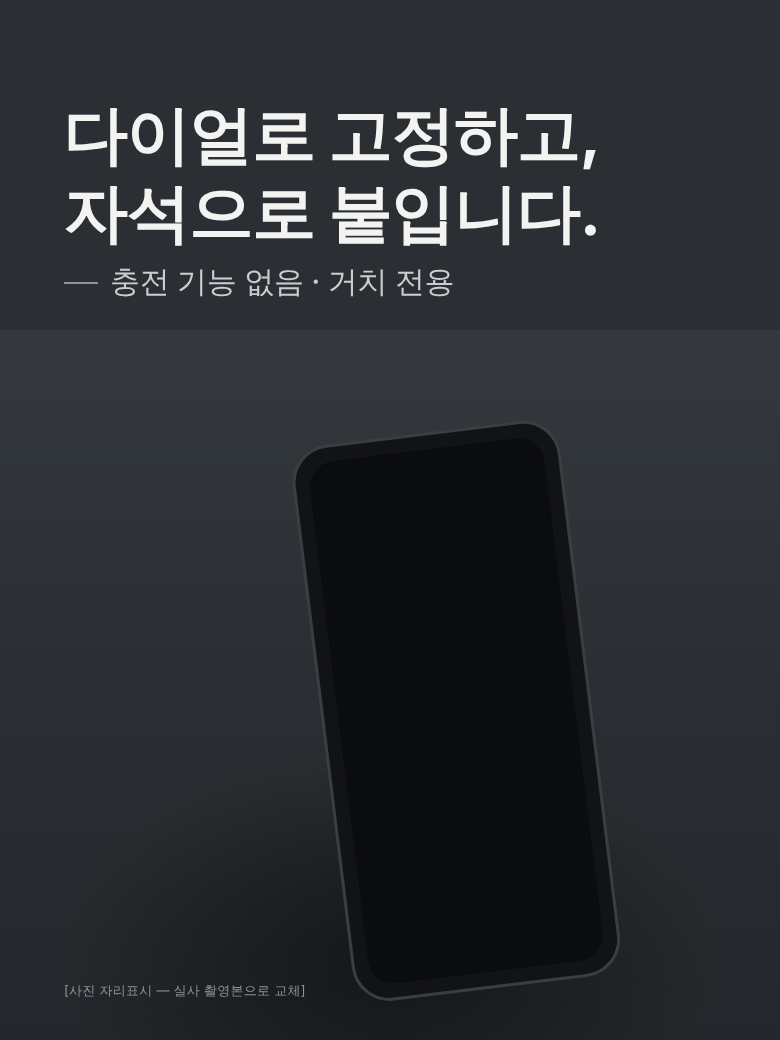
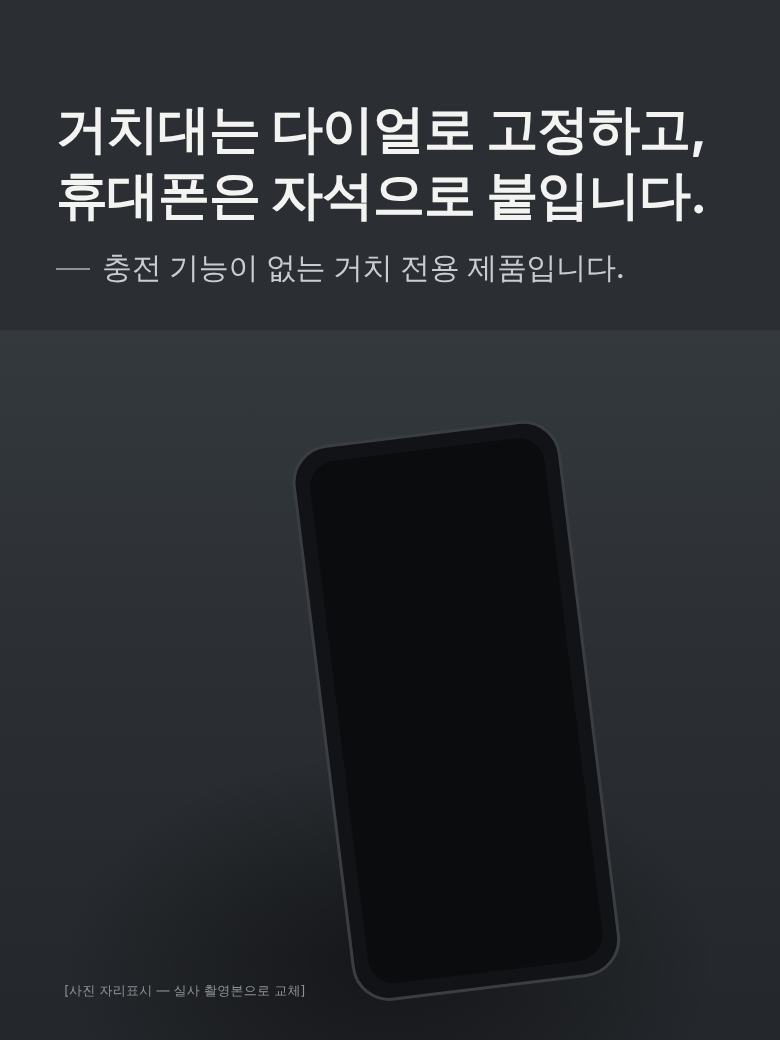
Revise N001 consumer copy with fluent-korean guideline; refine KV headline
Claude-Session: https://claude.ai/code/session_01DXr6YRCs5TJfJ9QnxEoxWM

Changed region(s): [[0.0615, 0.0923, 0.9231, 0.3077]]

diff --git a/product-page-planning/03_plan/kv_mockup/N001_KV_layout_780.html b/product-page-planning/03_plan/kv_mockup/N001_KV_layout_780.html
@@ -16,9 +16,9 @@ body{background:#fff;font-family:Pretendard,-apple-system,sans-serif}
 .phone{position:absolute;left:470px;top:430px;width:270px;height:560px;border-radius:38px;background:#111316;border:3px solid #3A3E43;transform:translateX(-50%) rotate(-7deg);transform-origin:50% 70%}
 .phone:after{content:'';position:absolute;inset:14px;border-radius:26px;background:#0B0C0E}
 .note{position:absolute;left:64px;bottom:40px;font-size:13px;color:#8E939A;letter-spacing:.02em}
-.title{position:absolute;left:64px;top:96px;font-weight:700;font-size:64px;line-height:1.22;letter-spacing:-0.02em;color:#F3F4F2}
+.title{position:absolute;left:56px;top:96px;font-weight:700;font-size:52px;line-height:1.26;letter-spacing:-0.02em;color:#F3F4F2}
 .title em{font-style:normal;color:#F3F4F2}
-.label{position:absolute;left:64px;top:262px;display:inline-flex;align-items:center;gap:12px;font-size:30px;font-weight:500;color:#C9CDD1;letter-spacing:-0.01em}
+.label{position:absolute;left:56px;top:248px;display:inline-flex;align-items:center;gap:12px;font-size:30px;font-weight:500;color:#C9CDD1;letter-spacing:-0.01em}
 .label i{display:inline-block;width:34px;height:2px;background:#8E939A}
 .safe{position:absolute;inset:0;pointer-events:none}
 .grid{position:absolute;left:0;right:0;border-top:1px dashed rgba(255,120,120,.35)}
@@ -28,8 +28,8 @@ body{background:#fff;font-family:Pretendard,-apple-system,sans-serif}
   <div class="photo"></div>
   <div class="base"></div><div class="dial"></div><div class="arm"></div><div class="head"></div><div class="phone"></div>
   <div class="note">[사진 자리표시 — 실사 촬영본으로 교체]</div>
-  <h1 class="title">다이얼로 고정하고,<br>자석으로 붙입니다.</h1>
-  <div class="label"><i></i>충전 기능 없음 · 거치 전용</div>
+  <h1 class="title">거치대는 다이얼로 고정하고,<br>휴대폰은 자석으로 붙입니다.</h1>
+  <div class="label"><i></i>충전 기능이 없는 거치 전용 제품입니다.</div>
   <div class="safe" id="safe"></div>
 </div>
 </body></html>

diff --git a/product-page-planning/03_plan/kv_mockup/render.js b/product-page-planning/03_plan/kv_mockup/render.js
@@ -6,7 +6,7 @@ const {chromium}=require('playwright');
  await p.waitForTimeout(1500);
  await p.screenshot({path:'kv_780.png'});
  // grid overlay version
- await p.evaluate(()=>{const s=document.getElementById('safe');[96,262,330,430,650,905].forEach(y=>{const d=document.createElement('div');d.className='grid';d.style.top=y+'px';d.innerHTML='<span>y='+y+'</span>';s.appendChild(d)})});
+ await p.evaluate(()=>{const s=document.getElementById('safe');[96,250,330,430,650,905].forEach(y=>{const d=document.createElement('div');d.className='grid';d.style.top=y+'px';d.innerHTML='<span>y='+y+'</span>';s.appendChild(d)})});
  await p.screenshot({path:'kv_780_grid.png'});
  // mobile 390 : scale 0.5
  const m=await b.newPage({viewport:{width:390,height:844},deviceScaleFactor:2});
@@ -15,7 +15,7 @@ const {chromium}=require('playwright');
  await m.waitForTimeout(1200);
  await m.screenshot({path:'kv_390.png',clip:{x:0,y:0,width:390,height:520}});
  // measure rendered sizes
- const t=await m.$eval('.title',e=>{const r=e.getBoundingClientRect();return {w:r.width,h:r.height}});
+ const tw=await p.$eval('.title',e=>e.getBoundingClientRect().width);console.log('title_width_780',tw);const t=await m.$eval('.title',e=>{const r=e.getBoundingClientRect();return {w:r.width,h:r.height}});
  const l=await m.$eval('.label',e=>{const r=e.getBoundingClientRect();return {w:r.width,h:r.height}});
  console.log(JSON.stringify({title_at_390:t,label_at_390:l}));
  await b.close();

diff --git a/product-page-planning/03_plan/N001_상세페이지_기획안.md b/product-page-planning/03_plan/N001_상세페이지_기획안.md
@@ -104,12 +104,13 @@
 - **message**: 차 안의 평평한 자리에 **다이얼로 고정된 실물**과, 그 위에 **폰이 자석으로 붙어 있는 모습**을 첫인상으로 남깁니다. 사진에 없는 정보는 '고정 방식' 하나만 글로 더합니다. 설명·위험·옵션·치수는 뒤 영역에 둡니다.
 
 - **copy** (소비자 원고 전문)
-  > **다이얼로 고정하고,**
-  > **자석으로 붙입니다.**
+  > **거치대는 다이얼로 고정하고,**
+  > **휴대폰은 자석으로 붙입니다.**
   >
-  > — 충전 기능 없음 · 거치 전용
+  > 충전 기능이 없는 거치 전용 제품입니다.
   - 제목 2줄, 조건 라벨 1줄. 보조문·브랜드명·기능 배지·옵션·가격은 없습니다.
-  - 라벨은 '맥세이프 호환' 검색 유입의 충전 오해를 막는 **조건 표기**이며 제목 바로 아래(주장 가까이)에 둡니다. '거치 전용'을 덧붙여 "없음"으로 끝나는 부정문의 어색함을 줄였습니다.
+  - 한국어 점검(fluent-korean, `카피_한국어_점검_2026-11-09.md`): 두 절의 목적어(거치대 / 휴대폰)를 보조사 '는'으로 드러내, 차에 고정하는 동작과 폰을 붙이는 동작이 다른 부위의 다른 동작임을 제목만으로 전달합니다. 라벨은 엠대시·가운뎃점 나열 대신 조사와 종결어미를 갖춘 한 문장으로 썼습니다.
+  - 라벨은 '맥세이프 호환' 검색 유입의 충전 오해를 막는 **조건 표기**이며 제목 바로 아래(주장 가까이)에 둡니다.
   - 제목 어순 근거: 고객이 실제로 하는 동작 순서(설치 → 폰 부착)를 따릅니다. 두 동사(고정하고 / 붙입니다)가 06 기술 보드의 부위 구분(베이스 / 헤드)과 1:1로 대응합니다.
 
 - **visual** (조판 좌표: 780×1040px 기준, `kv_mockup/N001_KV_layout_780.html`)
@@ -117,8 +118,8 @@
   | 요소 | 위치·크기 | 지정 |
   |---|---|---|
   | 배경 | 전면 | CHARCOAL `#2B2F33`. 사진 톤을 같은 계열로 보정해 경계가 보이지 않게 |
-  | 제목 | 좌 64px, 상단 y=96, 64px/1.22, Pretendard Bold, 자간 -2% | `#F3F4F2`. 2줄 고정. 줄바꿈은 쉼표 뒤 |
-  | 조건 라벨 | 좌 64px, y=262, 30px Medium | `#C9CDD1`, 앞에 34px 가는 선. 제목과 같은 열에 맞춤 |
+  | 제목 | 좌 56px, 상단 y=96, 52px/1.26, Pretendard Bold, 자간 -2% | `#F3F4F2`. 2줄 고정(각 13자). 줄바꿈은 쉼표 뒤. 780px에서 폭 650px |
+  | 조건 라벨 | 좌 56px, y=248, 30px Medium | `#C9CDD1`, 앞에 34px 가는 선. 제목과 같은 열에 맞춤 |
   | 사진 영역 | y=330~1040 (전체 높이의 68%) | 텍스트 세이프존(y<330)에 제품이 올라오지 않음 |
   | 제품 배치 | 화면 중앙 우측(가로 55~95%), 폰 상단 y≈430, 베이스 y≈905 | 제품+폰이 사진 영역의 60~65%. 베이스·다이얼·암·헤드 가장자리·폰이 모두 보이는 **낮은 3/4 측면** |
   | 좌하단 | y>930, 가로 0~45% | 비워 둠(대시보드 그림자 영역). 후속 섹션 전환용 여백 |
@@ -135,7 +136,7 @@
   - 비충전: 상품마스터 `features`·`functions`, 해외 원문 "no charging".
   - 이름을 쓰지 않으므로 고유명 승인(Q8)과 무관하며, 소싱명 '맥세이프 차량용 거치대'는 어디에도 쓰지 않습니다(가이드 A3-02).
 
-- **모바일 검수(기획 단계, 조판 시안 기준)**: 390px 폭에서 제목 32px, 라벨 15px로 렌더링됩니다(`kv_mockup/N001_KV_layout_390_check.png`). 라벨 15px는 가독 하한이므로 더 줄이지 않습니다. 실사 합성 후 같은 절차로 재검수합니다.
+- **모바일 검수(기획 단계, 조판 시안 기준)**: 390px 폭에서 제목 26px, 라벨 15px로 렌더링됩니다(`kv_mockup/N001_KV_layout_390_check.png`). 라벨 15px는 가독 하한이므로 더 줄이지 않습니다. 실사 합성 후 같은 절차로 재검수합니다.
 
 - **productionBrief**
   1. 촬영: 위 visual 지정대로 **컷 1장**(색상 옵션이 2개로 확정되면 같은 구도로 블랙·화이트 각 1장, 레이아웃은 동일). 보조 컷으로 동일 구도에서 폰을 뗀 상태 1장을 함께 찍어 06·07에서 재사용합니다.
@@ -151,13 +152,13 @@
   > **스마트폰으로 길 안내를 받는 분께**
   >
   > **출발 전에 경로를 켜 두는 날**
-  > 매일 아침, 낯선 목적지까지.
+  > 출근길에도, 낯선 목적지로 가는 날에도 출발 전에 경로를 켭니다.
   >
   > **타고 내리기를 반복하는 하루**
-  > 등하원, 외근, 배송처를 도는 날.
+  > 아이 등하원, 외근, 배송처를 도는 날에는 차에서 자주 내립니다.
   >
   > **송풍구는 비워 두고 싶을 때**
-  > 여름엔 바람을, 겨울엔 히터를 막고 싶지 않을 때.
+  > 여름에는 에어컨 바람을, 겨울에는 히터 바람을 거치대로 막고 싶지 않습니다.
 - **visual**: 흰 배경 상황 카드 3장(상황 수는 강제하지 않음). 각 카드는 정차 차량 안의 상황 사진 1장. 제품은 보여도 되지만 동작 시연은 하지 않습니다.
 - **evidence**: 상품마스터 `situations`·`trigger` [06:E3][07:E6][05:E19]. 선별 후기 기반이라 타깃은 **가설**이며 빈도·대표성을 단정하지 않습니다.
 - **productionBrief**: 주행 중 폰을 만지는 장면 금지. 1인칭 문장에 별점·작성자 금지. 상황 카드 문장은 제품 기능 설명으로 바뀌지 않게 검수.
@@ -171,10 +172,10 @@
   >
   > 운전 중 휴대폰을 찾아 고개를 돌리고 손을 뻗으면 시선과 주의가 도로에서 벗어납니다. 앞차의 감속을 늦게 알아차리면 추돌로 이어질 수 있습니다.
   >
-  > **휴대폰의 자리까지, 출발 전에 준비할 이유.**
-  > 내 차의 설치 조건에 맞는 거치대를 미리 마련하고, 경로 설정과 거치는 출발 전에 마치세요.
+  > **휴대폰을 둘 자리까지, 출발 전에 정해 두세요.**
+  > 내 차의 설치 조건에 맞는 거치대를 미리 마련하고, 경로를 설정하고 휴대폰을 거치하는 일은 출발 전에 마치세요.
   >
-  > 변경과 재거치는 안전한 장소에 주차한 뒤 진행하세요. 운전 중 휴대전화 조작은 도로교통법으로 금지되어 있습니다.
+  > 거치대 위치를 바꾸거나 다시 붙일 때는 안전한 장소에 주차한 뒤에 하세요. 운전 중 휴대전화 조작은 도로교통법으로 금지되어 있습니다.
 - **visual**: 암색 배경, 상황형 제목. 설명 카드 3장(좌석의 폰 → 도로에서 벗어난 시선 → 늦어진 대응)을 정차 차량 연출이나 도식으로. 마지막에 준비 안내. 이 영역 안에 제품 컷을 붙이지 않습니다(다음 05가 리뷰).
 - **evidence**
   - 국내 통계(보도 기준): 경찰청 자료, 2021~2023년 운전 중 스마트폰 사용 교통사고 1,989건·사망 38명·부상 2,998명 — 서울신문 2024-07-30 https://m.seoul.co.kr/news/2024/07/30/20240730500126 . **원문 대조(Q9) 전 소비자 화면에 수치 미사용.**
@@ -201,11 +202,11 @@
 - **copy**
   > **고정을 맡는 세 부분**
   >
-  > **흡착 베이스** — 설치면에 눌러 다이얼로 잠그는 부분
-  > **조절 관절** — 화면의 높이와 기울기를 맞추는 상·하 힌지
-  > **자석 헤드** — 휴대폰 뒷면이 붙는 원형 자석면
+  > **흡착 베이스**: 설치면에 눌러 다이얼로 잠그는 부분
+  > **조절 관절**: 화면의 높이와 기울기를 맞추는 상·하 힌지
+  > **자석 헤드**: 휴대폰 뒷면이 붙는 원형 자석면
   >
-  > 고정이 흔들리면 세 부분 중 어디가 느슨한지 먼저 확인할 수 있습니다.
+  > 거치가 흔들릴 때는 이 세 부분 중 어디가 느슨해졌는지부터 확인하면 됩니다.
 - **visual**: 연한 그리드 기술 보드 + 부위 접사 3줄(TIGHT/OPEN 다이얼, 힌지, 헤드). 실물 외관 도해만. 내부 투시도 없음.
 - **evidence**: [03:상세15][03:상세16][해외O1]. 상품마스터 `reviewGap`: 자력만으로 전체 고정을 기대하는 오해가 불만의 원인 → 부위 구분이 그 오해를 줄입니다.
 - **productionBrief**: 자석 투시도·'N52' 금지. 04 바로 뒤가 아닌 05 뒤 배치.
@@ -218,9 +219,9 @@
 - **message**: 송풍구에 걸지 않고 내가 고른 평평한 자리에 다이얼로 고정합니다. 매끈한 평면이면 테이프를 쓰지 않으니, 자리가 맞지 않으면 풀어서 다시 설치할 수 있습니다. 같은 구조 제품의 공통 특성이며 독점 표현은 쓰지 않습니다.
 - **copy**
   > **매끈한 평면이라면,**
-  > **테이프 없이 다이얼로.**
+  > **테이프 없이 다이얼로 고정합니다.**
   >
-  > 베이스를 누르고 TIGHT로 돌려 고정합니다. 자리를 옮길 땐 OPEN으로 풀고 탭을 당겨 분리하세요.
+  > 베이스를 설치면에 누른 채 다이얼을 TIGHT 방향으로 돌리면 고정됩니다. 자리를 옮길 때는 다이얼을 OPEN 방향으로 돌려 잠금을 풀고, 가장자리 탭을 당겨 떼어 내세요.
   >
   > 거친 면에는 보조패드(접착식)를 먼저 붙인 뒤 설치합니다. 베이스 전체가 닿지 않는 곡면에는 설치할 수 없습니다.
 - **visual**: GIF-A(누름 → TIGHT → 고정), GIF-B(OPEN → 탭 → 분리 → 다른 자리에 재설치). 실물 무편집, 자르기만 허용.
@@ -231,9 +232,9 @@
 
 **SP 01 (연회색) — 폰만 탈부착 → 출발 전 거치 준비**
 - **copy**
-  > **01 거치대는 차에 두고, 폰만.**
+  > **01 거치대는 차에 두고, 휴대폰만 붙였다 뗍니다.**
   >
-  > 출발 전 폰 뒷면을 헤드에 가져가 붙이고, 내릴 땐 폰만 떼어 갑니다. 집게를 벌릴 일이 없습니다.
+  > 출발 전에 휴대폰 뒷면을 자석 헤드에 가져다 대면 붙고, 내릴 때는 휴대폰만 떼어 가면 됩니다. 집게를 벌려 끼우는 동작이 없습니다.
   >
   > 맥세이프 호환 케이스 또는 케이스 겉면에 붙인 메탈링이 필요합니다.
 - **visual**: 정차 차량, 한 손 부착 → 분리 → 거치대가 같은 자리·각도에 남은 종료 컷
@@ -242,18 +243,18 @@
 
 **SP 02 — 상·하 관절 → 화면 배치**
 - **copy**
-  > **02 보기 편한 높이와 기울기로.**
+  > **02 화면을 보기 편한 높이와 기울기로 맞춥니다.**
   >
-  > 상·하 관절로 화면 기울기를 맞추고 가로·세로 방향을 바꿉니다. 조정은 출발 전이나 주차한 뒤에 해 주세요.
+  > 상·하 관절로 화면 기울기를 맞추고 가로·세로 방향을 바꿉니다. 각도 조정은 출발 전이나 주차한 뒤에 해 주세요.
 - **visual**: 운전석 시점, 같은 설치 위치의 가로/세로 비교. 광각 과장 금지.
 - **evidence**: [02:관절][03:상세15]. 짧은 암이라는 신규 구매평[추가1] → "화면을 끌어온다" 표현 금지.
 - **missingFacts**: T5 결과에 따라 폴드 장면 사용 여부
 
 **SP 03 — 접이 → 쓰지 않을 때의 공간**
 - **copy**
-  > **03 쓰지 않을 땐, 납작하게.**
+  > **03 쓰지 않을 때는 납작하게 접어 둡니다.**
   >
-  > 헤드와 관절을 접으면 낮은 원형으로 정리됩니다.
+  > 헤드와 관절을 접으면 낮은 원형으로 접힙니다.
 - **visual**: 접힘↔펼침 GIF + 손바닥 위 크기 비교 컷
 - **evidence**: [03:상세15]. 치수는 T7 전 미사용.
 - **missingFacts**: 실측(Q2)
@@ -284,18 +285,18 @@
 
 ### 09 제품정보 — 레이아웃 유지
 - **(활용 컷, 템플릿 위치)**
-  > **책상과 주방의 평평한 자리에도.**
-  > 노트북 옆, 조리대 밖에서.
+  > **책상과 주방의 평평한 자리에도 같은 방법으로 설치할 수 있습니다.**
+  > 노트북 옆에서 메시지를 확인하거나, 조리대 밖에서 레시피를 볼 때 씁니다.
   - evidence: [03:E3], 상품마스터 `situations`. 주용도(차량)를 충분히 설명한 뒤의 보완[공통 기준 4].
 - **message**: 무엇을 받고, 어떤 규격이며, 처음 설치·평소 사용·위치 변경·보관을 어떻게 하는지 확인하게 합니다.
 - **copy**
-  > **제품 크기** — (보류: T7)
-  > **소재** — (보류: Q3)
-  > **충전** — 충전 기능 없음
-  > **기본 구성** — (보류: Q1)
+  > **제품 크기**: (보류: T7)
+  > **소재**: (보류: Q3)
+  > **충전**: 충전 기능 없음
+  > **기본 구성**: (보류: Q1)
   >
   > **내 폰에 붙이는 법**
-  > · 맥세이프 호환 케이스: 그대로 붙입니다.
+  > · 맥세이프 호환 케이스를 쓰고 있다면 그대로 붙입니다.
   > · 일반 케이스: 메탈링을 케이스 겉면에 붙여 사용합니다. 링은 카메라에서 떨어진 위치에 붙여 주세요.
   > · 케이스의 두께·재질·링 위치에 따라 고정 상태가 달라질 수 있습니다.
   >
@@ -304,10 +305,10 @@
   > · 보조패드 사용: 거친 무광 플라스틱, 잔 패턴 면, 가죽 마감 등 매끈하지 않은 면
   > · 설치 불가: 베이스 전체가 닿지 않는 곡면, 솔기·단차 위, 푹신한 소프트 패드
   >
-  > **처음 설치할 때** — 설치면의 먼지와 물기를 닦고, 베이스를 눌러 다이얼을 TIGHT로 돌립니다. 화면 위치와 각도를 맞춘 뒤 출발하세요.
-  > **평소에는** — 거치대는 설치한 자리에 두고 폰만 붙였다 뗍니다.
-  > **위치를 바꿀 때** — 주차한 상태에서 다이얼을 OPEN으로 돌리고 탭을 당겨 분리합니다.
-  > **보관할 때** — 헤드와 관절을 접어 보관합니다.
+  > **처음 설치할 때**: 설치면의 먼지와 물기를 닦고, 베이스를 눌러 다이얼을 TIGHT로 돌립니다. 화면 위치와 각도를 맞춘 뒤 출발하세요.
+  > **평소에는**: 거치대는 설치한 자리에 두고 휴대폰만 붙였다 뗍니다.
+  > **위치를 바꿀 때**: 주차한 상태에서 다이얼을 OPEN으로 돌리고 탭을 당겨 분리합니다.
+  > **보관할 때**: 헤드와 관절을 접어 보관합니다.
 - **visual**: 치수선 도해(실측 후), 번호 붙인 구성품 플랫레이, 설치면 3칸 실사, 링 권장 위치 일러스트
 - **evidence**
   - 상품마스터 `usage`·`installation`: "거친 나무·가죽·패턴 대시보드에는 보조패드가 부착면을 만든다" → **가죽은 △(보조패드)**. v3.1의 X 분류는 원자료와 충돌해 수정. 최종 경계는 T3로 확정.
@@ -329,7 +330,7 @@
 - **message**: 남은 구매·사용 질문에 결론과 조치로 답하고, 주의사항은 분리해 읽히게 합니다.
 - **copy (Q&A)**
   > **충전도 되나요?**
-  > 아니요. 충전 기능이 없는 거치 전용 제품입니다. 충전은 케이블을 따로 연결하세요.
+  > 아니요. 충전 기능이 없는 거치 전용 제품입니다. 충전하려면 케이블을 따로 연결해야 합니다.
   >
   > **맥세이프가 없는 휴대폰은 어떻게 거치하나요?**
   > 메탈링을 케이스 겉면에 붙여 사용합니다. 가죽이나 미끄러운 실리콘 케이스는 링 접착이 약해질 수 있어 매끈한 하드 케이스를 권장합니다.
@@ -338,7 +339,7 @@
   > 가죽처럼 매끈하지 않은 면은 보조패드를 먼저 붙이면 설치할 수 있습니다. 베이스 전체가 닿지 않는 곡면은 보조패드로도 평평해지지 않아 설치할 수 없습니다.
   >
   > **자석에는 붙어 있는데 폰이 숙여지거나 떨어져요.**
-  > 세 곳을 차례로 확인하세요. ① 베이스가 설치면에 완전히 밀착됐는지 ② 관절이 폰 무게에 처지지 않는지 ③ 링이 케이스에서 들뜨지 않았는지. 링이 들떴다면 접착력이 떨어진 것이니 다시 쓰지 말고 교체하세요.
+  > 세 곳을 차례로 확인하세요. ① 베이스가 설치면에 완전히 밀착됐는지 ② 관절이 휴대폰 무게에 처지지 않는지 ③ 링이 케이스에서 들뜨지 않았는지. 링이 들떴다면 접착력이 떨어진 것이니 다시 쓰지 말고 교체하세요.
   >
   > **위치는 언제 바꾸나요?**
   > 안전한 장소에 주차한 뒤 다이얼을 풀어 옮겨 주세요. 신호 대기 중에는 조정하지 마세요.
@@ -350,11 +351,11 @@
   > 짧은 암으로 높이와 기울기를 맞추는 구조입니다. 화면을 멀리 끌어와야 한다면 긴 암 방식이 더 맞을 수 있습니다.
   >
   > **카메라나 S펜에 영향이 있나요?**
-  > 강한 자석은 카메라 손떨림 보정에 영향을 줄 수 있어 링은 카메라에서 떨어진 위치에 붙이기를 권장합니다. 이상이 느껴지면 자석 액세서리를 떼고 비교해 보세요.
+  > 강한 자석은 카메라 손떨림 보정에 영향을 줄 수 있어 링은 카메라에서 떨어진 위치에 붙이기를 권장합니다. 카메라나 S펜이 평소와 다르게 작동하면 자석 액세서리를 떼어 낸 상태와 비교해 보세요.
 - **copy (주의사항, 진회색 박스로 분리)**
   > · 에어백이 펼쳐지는 부위, 전방 시야를 가리는 위치에는 설치하지 마세요.
   > · 경로 설정과 거치는 출발 전에, 변경은 안전한 장소에 주차한 뒤 진행하세요.
-  > · 여름철 주차 중 대시보드는 매우 뜨거워질 수 있습니다(외기 34°C에서 4시간 주차 시 검은색 차량 대시보드 최고 85.5°C — 한국도로교통공단 측정). 흡착이 약해지면 주차한 상태에서 설치면과 베이스의 먼지를 닦고 다시 고정하세요.
+  > · 여름철 주차 중 대시보드는 매우 뜨거워질 수 있습니다(외기 34°C에서 4시간 주차 시 검은색 차량 대시보드 최고 85.5°C, 한국도로교통공단 측정). 흡착이 약해지면 주차한 상태에서 설치면과 베이스의 먼지를 닦고 다시 고정하세요.
   > · 충전 기능이 없습니다.
 - **evidence**: 상품마스터 `questions`·`faq`·`unavailableConditions`·`compatibility`·`care`. Apple 안내, 현대·기아 취급설명서, 도로교통공단 측정(2026-08 보도)[K]. 증상 → 원인 후보 → 조치 형식[A3-11].
 - **productionBrief**: 고객이 실제로 쓰는 질문 표현. SP의 질문형 반복 금지.

diff --git a/product-page-planning/03_plan/카피_한국어_점검_2026-11-09.md b/product-page-planning/03_plan/카피_한국어_점검_2026-11-09.md
@@ -1,0 +1,63 @@
+# N001 기획안 소비자 카피 한국어 점검 (fluent-korean 지침 적용)
+
+- 점검일: 2026-11-09
+- 적용 지침: [snflkd/fluent-korean](https://github.com/snflkd/fluent-korean) `fluent-korean-not-coding.md`. 저장소를 내려받아 지침 전문을 읽고, 기획안의 **소비자 카피(copy 필드)**에만 적용했습니다. message·evidence·productionBrief 같은 내부 기록은 대상에서 뺐습니다.
+- 적용 방식: 지침은 요약하지 않고 조항별로 대조했습니다. 헤더와 목록에는 2번 조항(서술어로 문장 끝맺기)을 강제하지 않는다는 지침의 예외를 따르되, 광고 제목이라도 **의미 성분이 빠져 뜻이 갈리는 경우**(1번 조항)는 고쳤습니다.
+
+## 적용한 조항
+
+| 코드 | 조항 요지 |
+|---|---|
+| 문1 | 의미가 있는 문장 성분(주어·목적어·장소 등)을 생략하지 않는다. 관형격 '~의'를 과하게 쓰지 않는다 |
+| 문2 | 명사구·부사구·연결어미로 끝내지 말고 서술어와 종결어미로 끝맺는다 (헤더·목록은 예외) |
+| 구1 | 조사와 어미를 생략하지 않는다. 보조사·부사·보조 용언을 적극적으로 쓴다 |
+| 구2 | 구체적 한자어와 자연스러운 통사 구조를 결합하고, 조사·어미로 어휘 관계를 드러낸다 |
+| 구3 | 일반 어휘 자리에 비유적 어휘를 쓰지 않는다 |
+| 구4 | 엠대시(—)를 자제하고 콜론이나 접속사로 대체한다 |
+| 어휘 | (추가) '폰'처럼 구어 축약형은 '휴대폰'으로 통일해 격을 맞춘다 |
+
+## 02 메인 키비주얼 (이번 디벨롭의 중심)
+
+| 구분 | 수정 전 | 수정 후 | 조항 | 이유 |
+|---|---|---|---|---|
+| 제목 | 다이얼로 고정하고, / 자석으로 붙입니다. | **거치대는 다이얼로 고정하고, / 휴대폰은 자석으로 붙입니다.** | 문1, 구1 | 두 절의 목적어가 서로 다른데(거치대 / 휴대폰) 둘 다 빠져 있어, 한 대상에 대한 연속 동작으로 읽힐 수 있었습니다. 보조사 '는'으로 대조 구조를 만들어 "차에 고정하는 것 / 폰을 붙이는 것"이 다른 부위·다른 동작임을 제목만으로 전달합니다. 06 기술 보드의 베이스/헤드 구분과도 대응됩니다 |
+| 조건 라벨 | — 충전 기능 없음 · 거치 전용 | **충전 기능이 없는 거치 전용 제품입니다.** | 구4, 구1, 문2 | 엠대시와 가운뎃점으로 이어 붙인 명사 나열을 조사와 종결어미가 있는 한 문장으로 바꿨습니다. 뜻은 같고, 읽는 사람이 관계를 추론할 필요가 없어집니다 |
+
+조판 영향: 제목이 10자에서 13자로 늘어 64px에서는 780px 폭을 넘칩니다(700px). **52px로 낮추고 좌우 여백을 56px로 조정**했습니다. 모바일 390px에서는 제목 26px, 라벨 15px로 렌더링되어 가독 하한을 지킵니다. 시안: `kv_mockup/N001_KV_layout_780_grid.png`, `kv_mockup/N001_KV_layout_390_check.png`
+
+## 그 밖의 영역
+
+| 영역 | 수정 전 | 수정 후 | 조항 |
+|---|---|---|---|
+| 03 | 매일 아침, 낯선 목적지까지. | 출근길에도, 낯선 목적지로 가는 날에도 출발 전에 경로를 켭니다. | 문1, 문2 |
+| 03 | 등하원, 외근, 배송처를 도는 날. | 아이 등하원, 외근, 배송처를 도는 날에는 차에서 자주 내립니다. | 문1, 문2 |
+| 03 | 여름엔 바람을, 겨울엔 히터를 막고 싶지 않을 때. | 여름에는 에어컨 바람을, 겨울에는 히터 바람을 거치대로 막고 싶지 않습니다. | 문1, 구1 ('히터를 막다'는 목적어 오류, 무엇으로 막는지 누락) |
+| 04 | 휴대폰의 자리까지, 출발 전에 준비할 이유. | 휴대폰을 둘 자리까지, 출발 전에 정해 두세요. | 문1('~의' 남용), 문2 |
+| 04 | …경로 설정과 거치는 출발 전에 마치세요. | …경로를 설정하고 휴대폰을 거치하는 일은 출발 전에 마치세요. | 구1 ('거치는'이 조사 '는'인지 동사 '거치다'인지 갈림) |
+| 04 | 변경과 재거치는 안전한 장소에 주차한 뒤 진행하세요. | 거치대 위치를 바꾸거나 다시 붙일 때는 안전한 장소에 주차한 뒤에 하세요. | 문1, 구2 (무엇을 변경하는지 누락, '재거치' 비통용 한자어) |
+| 06 | 흡착 베이스 — 설치면에… (3항목) | 흡착 베이스: 설치면에… | 구4 |
+| 06 | 고정이 흔들리면 세 부분 중 어디가 느슨한지 먼저 확인할 수 있습니다. | 거치가 흔들릴 때는 이 세 부분 중 어디가 느슨해졌는지부터 확인하면 됩니다. | 구1 (보조사 '부터', 보조 용언 '~면 됩니다') |
+| 07 핵심 | 매끈한 평면이라면, / 테이프 없이 다이얼로. | 매끈한 평면이라면, / 테이프 없이 다이얼로 고정합니다. | 문2 |
+| 07 핵심 | 베이스를 누르고 TIGHT로 돌려 고정합니다. 자리를 옮길 땐 OPEN으로 풀고 탭을 당겨 분리하세요. | 베이스를 설치면에 누른 채 다이얼을 TIGHT 방향으로 돌리면 고정됩니다. 자리를 옮길 때는 다이얼을 OPEN 방향으로 돌려 잠금을 풀고, 가장자리 탭을 당겨 떼어 내세요. | 문1 (무엇을 TIGHT로 돌리는지, 어디에 누르는지, 무엇을 푸는지 누락), 구1 |
+| 07 SP01 | 01 거치대는 차에 두고, 폰만. | 01 거치대는 차에 두고, 휴대폰만 붙였다 뗍니다. | 문2, 어휘 |
+| 07 SP01 | 출발 전 폰 뒷면을 헤드에 가져가 붙이고, 내릴 땐 폰만 떼어 갑니다. 집게를 벌릴 일이 없습니다. | 출발 전에 휴대폰 뒷면을 자석 헤드에 가져다 대면 붙고, 내릴 때는 휴대폰만 떼어 가면 됩니다. 집게를 벌려 끼우는 동작이 없습니다. | 구1, 문1, 어휘 |
+| 07 SP02 | 02 보기 편한 높이와 기울기로. | 02 화면을 보기 편한 높이와 기울기로 맞춥니다. | 문1, 문2 |
+| 07 SP02 | 조정은 출발 전이나… | 각도 조정은 출발 전이나… | 문1 |
+| 07 SP03 | 03 쓰지 않을 땐, 납작하게. | 03 쓰지 않을 때는 납작하게 접어 둡니다. | 구1, 문2 |
+| 07 SP03 | 낮은 원형으로 정리됩니다. | 낮은 원형으로 접힙니다. | 구3 ('정리되다'는 비유적 대체, 실제 동작은 '접히다') |
+| 09 활용 | 책상과 주방의 평평한 자리에도. / 노트북 옆, 조리대 밖에서. | 책상과 주방의 평평한 자리에도 같은 방법으로 설치할 수 있습니다. / 노트북 옆에서 메시지를 확인하거나, 조리대 밖에서 레시피를 볼 때 씁니다. | 문1, 문2 |
+| 09 | 맥세이프 호환 케이스: 그대로 붙입니다. | 맥세이프 호환 케이스를 쓰고 있다면 그대로 붙입니다. | 구1 |
+| 09 | 처음 설치할 때 — / 평소에는 — / 위치를 바꿀 때 — / 보관할 때 — / 제품 크기 — … | 콜론으로 통일, '폰만' → '휴대폰만' | 구4, 어휘 |
+| 11 | 충전은 케이블을 따로 연결하세요. | 충전하려면 케이블을 따로 연결해야 합니다. | 구1 ('충전은 … 연결하세요'는 주제와 서술어가 맞지 않음) |
+| 11 | 이상이 느껴지면 자석 액세서리를 떼고 비교해 보세요. | 카메라나 S펜이 평소와 다르게 작동하면 자석 액세서리를 떼어 낸 상태와 비교해 보세요. | 문1 (무엇의 이상인지, 무엇과 비교하는지 누락) |
+| 11 | 관절이 폰 무게에 | 관절이 휴대폰 무게에 | 어휘 |
+| 11 주의 | 85.5°C — 한국도로교통공단 측정 | 85.5°C, 한국도로교통공단 측정 | 구4 |
+
+## 고치지 않은 것과 이유
+- **04 제목 "휴대폰을 찾는 사이, 앞차가 멈춘다면."**: 연결어미로 끝나지만 헤더이고, 대시보드 가이드 04 작성 예시 원문 그대로입니다. 상황형 제목으로서 뒤 본문이 서술을 이어받습니다.
+- **08 제목 "설치 방식이 다르면, / 놓을 자리도 달라집니다."**: 주어·서술어가 갖춰진 완결문입니다.
+- **12 브랜드 문구**: 승인 공용 원고이므로 손대지 않았습니다.
+- **(보류)로 비워 둔 원고**: 확정 뒤 작성 시 같은 지침으로 점검합니다.
+
+## 다음 적용 지점
+제작 단계에서 13 내부 기준의 조판 검수 항목에 "소비자 문구가 fluent-korean 문1·구1·구4에 맞는가"를 추가합니다. 새로 쓰는 원고(05 후기 제목, 09 구성, 10 고시 항목명)도 게시 전에 같은 표로 점검합니다.
